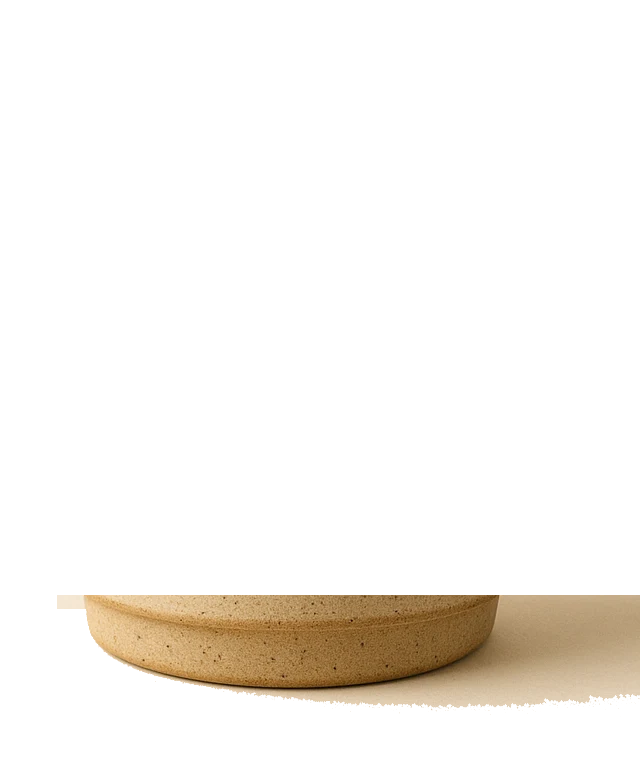
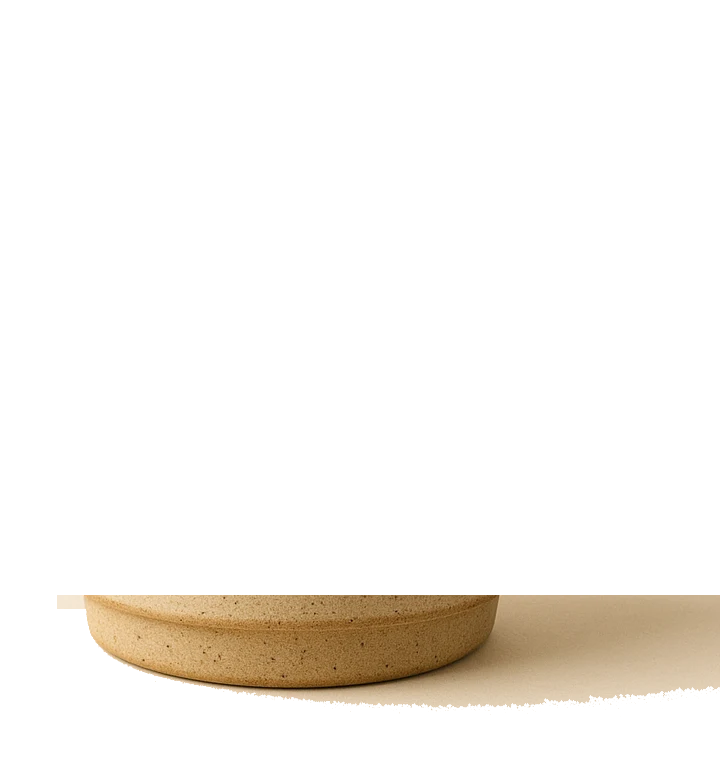
Corrige recorte da alça e esconde régua até o scroll iniciar
O canvas das 4 camadas cortava a alça (ia até x=830, alça ia até
x=886). Alargado para incluir toda a alça com margem. Régua vertical
agora só aparece conforme a separação começa, igual às legendas.

Changed region(s): [[0.0625, 0.7566, 1.0, 0.9382]]

diff --git a/dist/index.html b/dist/index.html
@@ -591,6 +591,8 @@
   .camadas-ruler {
     position: absolute; left: 0; top: 4px; bottom: 4px; width: 1px;
     background: rgba(44,44,42,0.12);
+    opacity: var(--t, 0);
+    transition: opacity .4s var(--ease);
   }
   .camadas-ruler-fill {
     position: absolute; left: 0; top: 0; width: 100%;
@@ -626,7 +628,7 @@
   }
   .camadas-stage {
     position: relative;
-    aspect-ratio: 640 / 760;
+    aspect-ratio: 720 / 760;
   }
   .camadas-layer {
     position: absolute; inset: 0;
